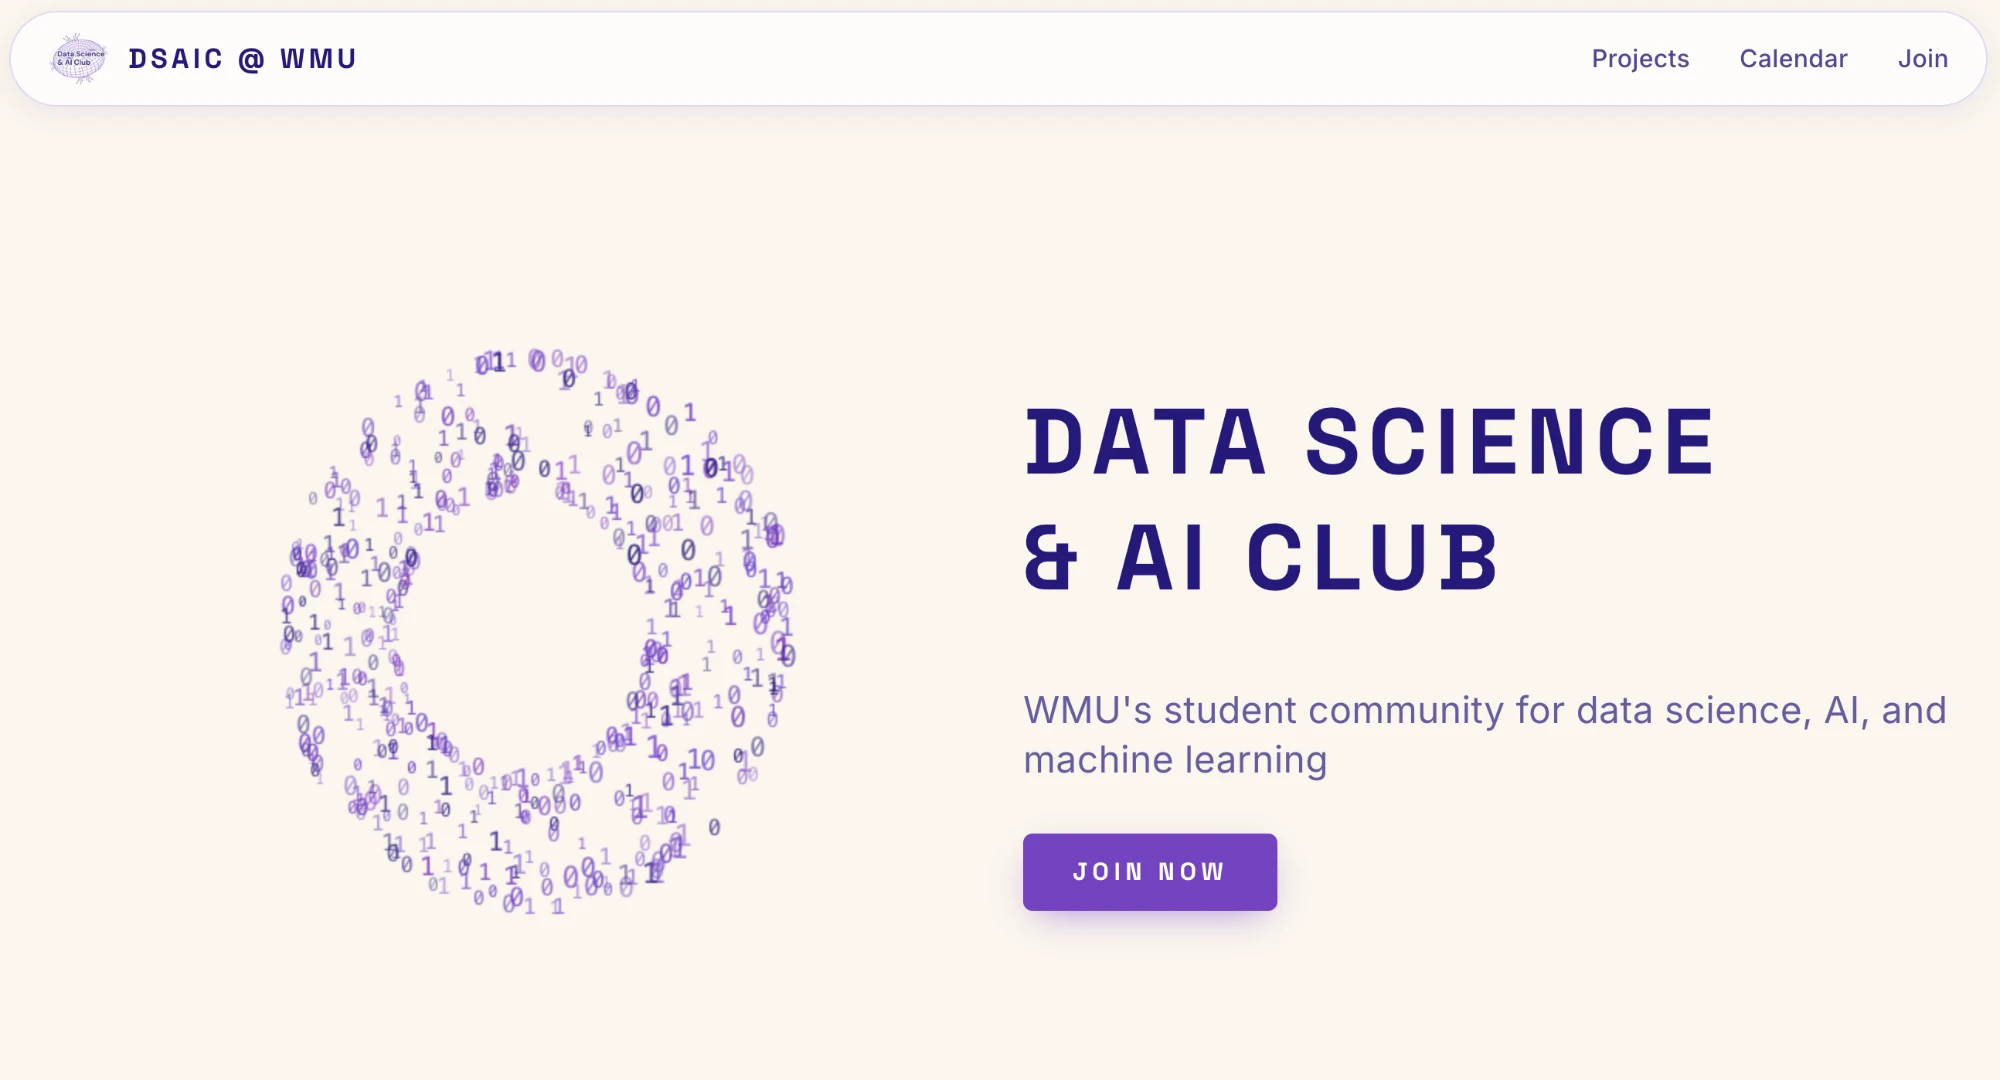
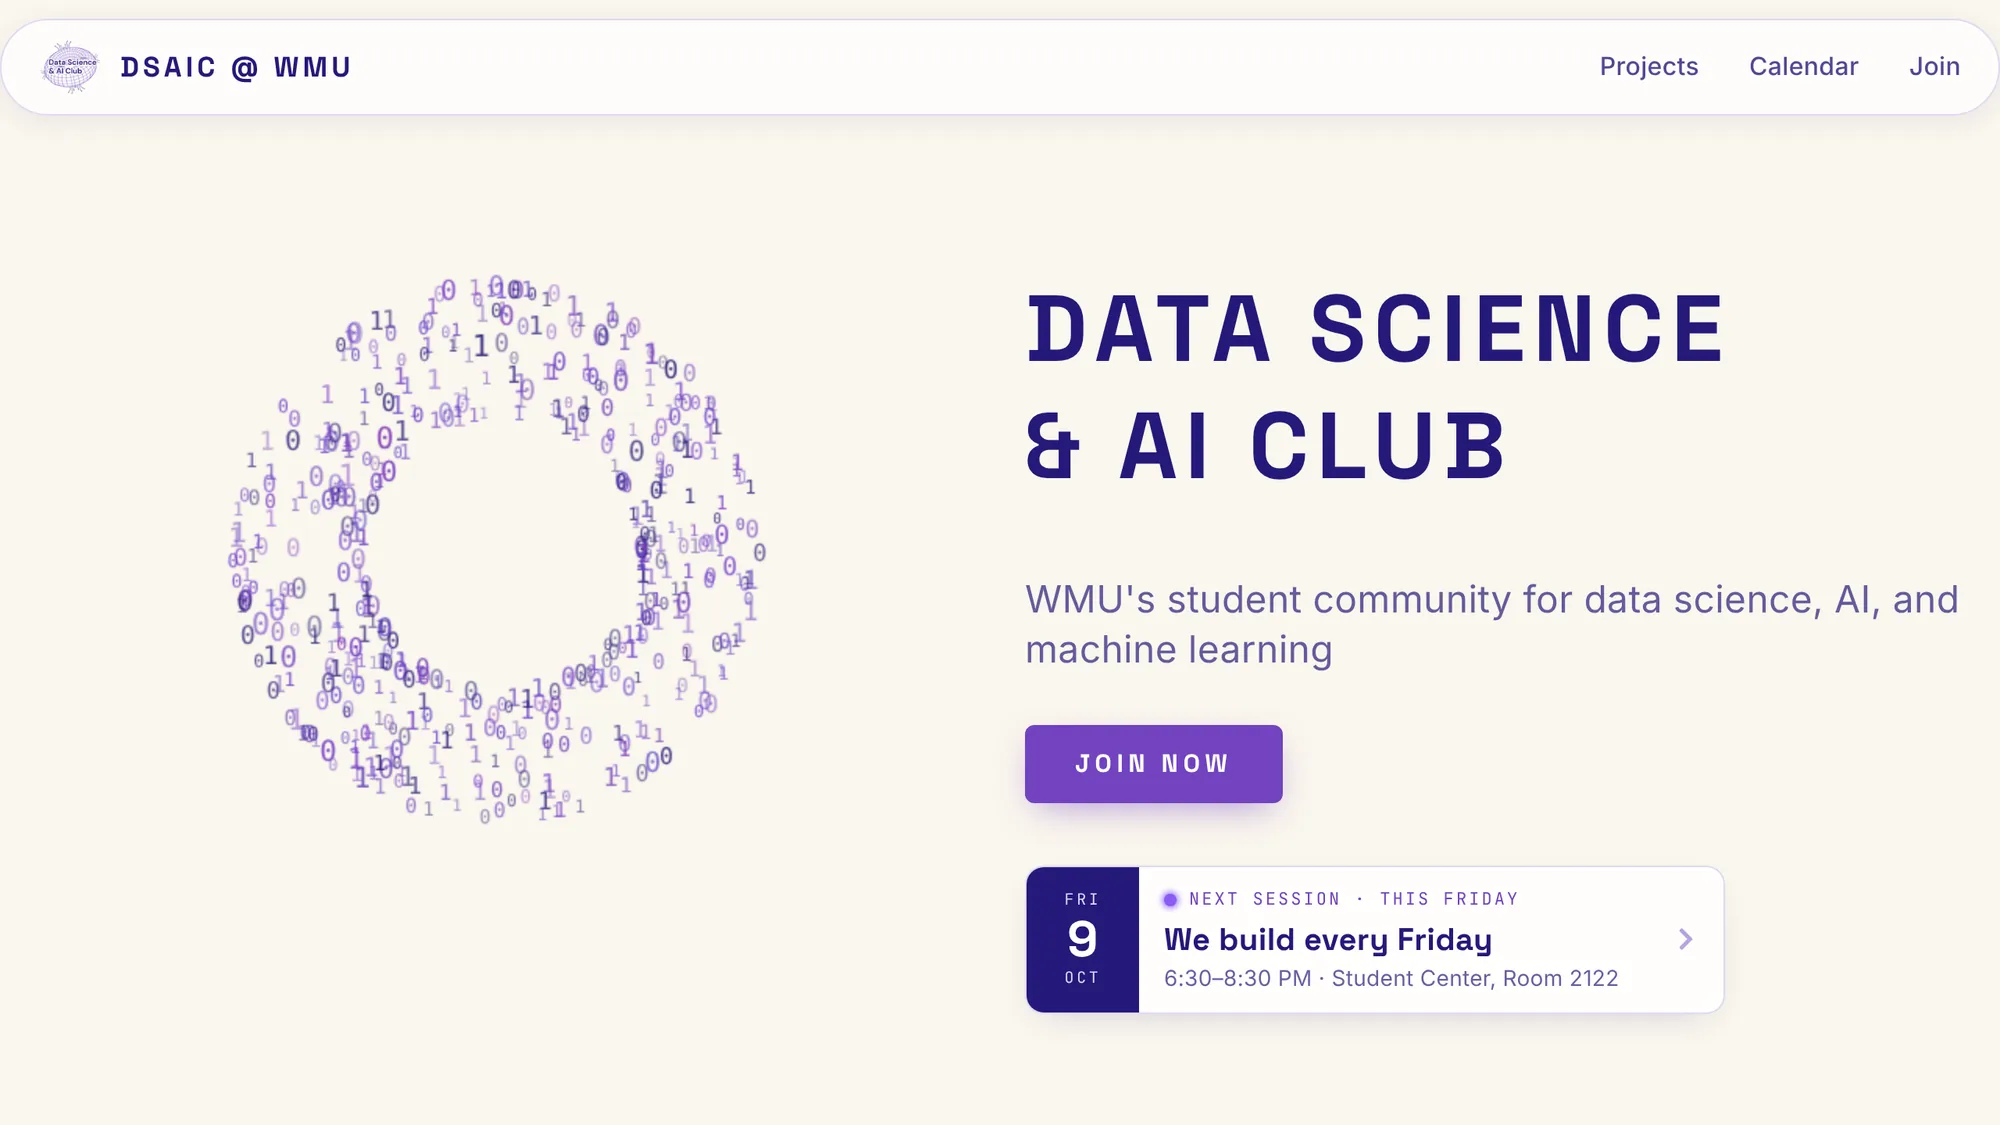
Refresh the README and its preview image
- New preview image of the landing page, including the next build session
  card.
- README follows common open-source structure: quick links, website-status
  and tech-stack badges, a table of contents, a tech-stack table, a
  commands table that includes the OG image and favicon scripts, an
  accurate project tree (calendar.ics, llms.txt, scripts/), and sections on
  SEO, deployment, and contributing.
- CLAUDE.md notes that new pages should use pageMetadata().

Claude-Session: https://claude.ai/code/session_01A5X7vCFBNQfVBcZBc177kj

diff --git a/README.md b/README.md
@@ -1,71 +1,142 @@
 <div align="center">
 
-![DSAIC website hero](./images/header.webp)
+![The DSAIC website's landing page, showing the next Friday build session](./images/header.webp)
 
 # Data Science & AI Club at WMU
 
-**The official website of DSAIC — WMU's student community for data science, AI, and machine learning.**
+**The official website of DSAIC, Western Michigan University's student community for data science, AI, and machine learning.**
 
-[**dscwmu.org**](https://dscwmu.org)
+[Website](https://dscwmu.org) · [Calendar](https://dscwmu.org/calendar) · [Projects](https://dscwmu.org/projects) · [Join the club](https://dscwmu.org/join)
 
+[![dscwmu.org](https://img.shields.io/website?url=https%3A%2F%2Fdscwmu.org&style=for-the-badge&label=dscwmu.org&up_message=online&down_message=offline)](https://dscwmu.org)
 ![Next.js](https://img.shields.io/badge/Next.js_15-000000?style=for-the-badge&logo=nextdotjs&logoColor=white)
 ![React](https://img.shields.io/badge/React_19-61DAFB?style=for-the-badge&logo=react&logoColor=black)
-![TypeScript](https://img.shields.io/badge/TypeScript-3178C6?style=for-the-badge&logo=typescript&logoColor=white)
+![TypeScript](https://img.shields.io/badge/TypeScript_5-3178C6?style=for-the-badge&logo=typescript&logoColor=white)
 ![Tailwind CSS](https://img.shields.io/badge/Tailwind_CSS_4-06B6D4?style=for-the-badge&logo=tailwindcss&logoColor=white)
+![Vercel](https://img.shields.io/badge/Hosted_on_Vercel-000000?style=for-the-badge&logo=vercel&logoColor=white)
 
 </div>
 
-## Overview
+## Contents
 
-A fully static, performance-focused site built with the Next.js App Router. It showcases the club's projects, events, and team, with structured data (schema.org) and per-page metadata for SEO.
+- [About](#about)
+- [Features](#features)
+- [Tech Stack](#tech-stack)
+- [Getting Started](#getting-started)
+- [Editing Content](#editing-content)
+- [Project Structure](#project-structure)
+- [SEO and Machine Readability](#seo-and-machine-readability)
+- [Deployment](#deployment)
+- [Contributing](#contributing)
+
+## About
+
+The site is where members and prospective members find out when the club meets, what it's building, and how to join. Its core is the weekly build session: every Friday, 6:30–8:30 PM, in the WMU Student Center. The schedule is kept in one data file and checks the date on its own, so the landing page, the calendar page, and the calendar feed all stay current without a redeploy.
 
 ## Features
 
-- **Friday build sessions front and center** — the hero shows the next session, and the schedule flags weeks off and room changes
-- **Events in one place** — a single source of truth (`lib/events.ts`) feeds the calendar page, the landing page schedule, and a calendar feed at `/calendar.ics` (behind the Add to Google Calendar and Apple / Outlook buttons); past sessions and events drop off on their own
-- **Projects showcase** with active and past club projects
-- **Photo gallery** cycling through club event photos
-- **Smooth scrolling** powered by Lenis, with `prefers-reduced-motion` respected
-- **Responsive design** across desktop, tablet, and mobile
+- **Next build session up front.** A card under the hero shows the next session, switches to "Happening now" while one is running, and flags weeks off and room changes.
+- **Calendar page.** Every Friday this semester, grouped by month, plus special events, past events, and recent Instagram recaps.
+- **Add to calendar.** One click subscribes Google Calendar to the club feed; Apple Calendar and Outlook users get a downloadable `.ics` file.
+- **Projects, officers, and resources.** Active and past club projects, the officer board, and a short list of learning resources.
+- **Search and AI friendly.** Per-page metadata, schema.org structured data, a sitemap, and an `llms.txt` summary. See [SEO and Machine Readability](#seo-and-machine-readability).
+- **Fast and accessible.** Statically generated, optimized images, responsive from phone to desktop, and smooth scrolling that turns off for `prefers-reduced-motion`.
+
+## Tech Stack
+
+| Area | Technology | Notes |
+| --- | --- | --- |
+| Framework | [Next.js 15](https://nextjs.org) (App Router) | Static pages regenerated at most hourly (ISR) |
+| UI | [React 19](https://react.dev) | Server components by default, client components for interactive parts |
+| Language | [TypeScript 5](https://www.typescriptlang.org) | Strict mode |
+| Styling | [Tailwind CSS 4](https://tailwindcss.com) | Design tokens in `app/globals.css` |
+| Fonts | Space Grotesk, Inter, JetBrains Mono | Loaded with `next/font` |
+| Icons | [React Icons](https://react-icons.github.io/react-icons/) | Font Awesome set |
+| Scrolling | [Lenis](https://lenis.darkroom.engineering) | Smooth scrolling, off for reduced motion |
+| Images | `next/image`, [sharp](https://sharp.pixelplumbing.com) | Responsive photos; icon generation |
+| Hosting | [Vercel](https://vercel.com) | Production from `main`, a preview for every pull request |
+| Analytics | [Microsoft Clarity](https://clarity.microsoft.com) | Disclosed in the site footer |
+| Linting | [ESLint 9](https://eslint.org) | `next/core-web-vitals` and `next/typescript` |
 
 ## Getting Started
 
-Requires Node.js 18.18+.
+**Prerequisites:** Node.js 18.18 or newer (20 LTS recommended) and npm.
+
+Clone the repository, then install dependencies and start the development server:
 
 ```bash
-# clone this repository, then:
 npm install
 npm run dev
 ```
 
-Open [http://localhost:3000](http://localhost:3000) to view the site. Other scripts:
+Then open [http://localhost:3000](http://localhost:3000).
 
-```bash
-npm run build   # production build
-npm run start   # serve the production build
-npm run lint    # lint the codebase
-```
+| Command | What it does |
+| --- | --- |
+| `npm run dev` | Start the development server with Turbopack |
+| `npm run build` | Create a production build |
+| `npm run start` | Serve the production build |
+| `npm run lint` | Lint the codebase |
+| `python3 scripts/create-og-image.py` | Rebuild the link preview card, `public/og-image.jpg` (needs Pillow) |
+| `node scripts/create-favicon.js` | Regenerate the favicons and app icons from the club logo |
 
 ## Editing Content
 
+Most updates only touch a data file:
+
 | Content | Where |
 | --- | --- |
-| Weekly build sessions | `lib/events.ts` — `BUILD_SESSION` holds the usual day, time, and room; `BUILD_SESSIONS` lists each Friday, with `room` for a room change and `noSession` for a week off |
-| Special events | `lib/events.ts` — `EVENTS`; give an event a `date` once it's scheduled and it shows on the landing page until it's over |
-| Instagram recaps on the calendar page | `lib/instagram.ts` + 1080x1350 WebP images in `public/instagram/` |
-| Active & past projects | `components/sections/Projects.tsx` |
-| About-section photo gallery | `components/sections/About.tsx` + image files in `public/` |
-| Team members | `components/sections/Team.tsx` + photos in `public/pfp/` |
+| Weekly build sessions | `lib/events.ts`: `BUILD_SESSION` holds the usual day, time, and room; `BUILD_SESSIONS` lists each Friday, with `room` for a room change and `noSession` for a week off |
+| Special events | `lib/events.ts`: `EVENTS`; give an event a `date` once it's scheduled and it shows on the landing page until it's over |
+| Instagram recaps on the calendar page | `lib/instagram.ts`, plus 1080×1350 WebP images in `public/instagram/` |
+| Projects | `components/sections/Projects.tsx` |
+| About-section photo gallery | `components/sections/About.tsx`, plus image files in `public/` |
+| Officers | `components/sections/Team.tsx`, plus photos in `public/pfp/` |
+| Link preview image | `scripts/create-og-image.py`; after regenerating, bump the `?v=` in `SOCIAL_IMAGE` in `lib/site.ts` |
 | Site URL, description, socials | `lib/site.ts` |
 
 ## Project Structure
 
 ```
-app/          # Routes (App Router): landing, projects, calendar, join, discord
-components/   # Layout, sections, and card components
-lib/          # Shared data and config (events, site metadata)
-public/       # Static assets (photos, logos, favicons)
+app/
+├── page.tsx            # Landing page
+├── calendar/           # Build sessions, special events, Instagram recaps
+├── projects/, join/    # Projects and membership pages
+├── discord/            # Redirects to the Discord invite
+├── calendar.ics/       # iCalendar feed behind "Add to calendar"
+├── llms.txt/           # Plain-text summary of the club for AI assistants
+├── layout.tsx          # Fonts, site-wide metadata, organization JSON-LD
+└── sitemap.ts, robots.ts, manifest.ts
+components/
+├── sections/           # Page sections: Hero, Schedule, Team, and more
+├── cards/, schedule/   # Cards and shared schedule pieces
+└── layout/             # Header and footer
+lib/                    # Content data (events, Instagram) and helpers (schedule, SEO)
+public/                 # Photos, logos, icons, and the link preview image
+scripts/                # Link preview and favicon generators
+images/                 # README assets
 ```
+
+## SEO and Machine Readability
+
+- **Per-page metadata.** Each page has its own title, description, canonical URL, and Open Graph and Twitter card (`pageMetadata` in `lib/site.ts`).
+- **Structured data.** schema.org JSON-LD describes the club (`EducationalOrganization`) on every page and each upcoming build session (`Event`) on the calendar page.
+- **Crawling.** `sitemap.xml` lists every page, and `robots.txt` allows all crawlers, including AI crawlers.
+- **`/llms.txt`.** A plain-text summary of the club, its upcoming sessions, and an index of the site for AI assistants, following [llmstxt.org](https://llmstxt.org).
+- **`/calendar.ics`.** The schedule as an iCalendar feed, linked from the calendar page's `<head>`.
+
+## Deployment
+
+The site is hosted on Vercel. Merging to `main` deploys to [dscwmu.org](https://dscwmu.org), and every pull request gets its own preview URL.
+
+Pages are static and regenerate at most once an hour, and the schedule re-checks the visitor's clock in the browser, so the next session stays correct between deploys. Absolute URLs default to `https://dscwmu.org`; set `NEXT_PUBLIC_SITE_URL` to override it for another domain.
+
+## Contributing
+
+1. Create a branch from `main`.
+2. Make your changes, then run `npm run lint` and `npm run build`.
+3. Open a pull request and check its Vercel preview.
+4. Merge once it looks right; Vercel deploys it automatically.
 
 ---
 
@@ -73,6 +144,6 @@ public/       # Static assets (photos, logos, favicons)
 
 Built and maintained by DSAIC members.
 
-[Website](https://dscwmu.org) · [Instagram](https://www.instagram.com/dsaicwmu/) · [LinkedIn](https://www.linkedin.com/company/data-science-club-wmu/) · [Email](mailto:wmu.datascienceclub@gmail.com)
+[Website](https://dscwmu.org) · [Instagram](https://www.instagram.com/dsaicwmu/) · [LinkedIn](https://www.linkedin.com/company/data-science-club-wmu/) · [GitHub](https://github.com/Data-Science-Club-at-WMU) · [Email](mailto:wmu.datascienceclub@gmail.com)
 
 </div>

diff --git a/CLAUDE.md b/CLAUDE.md
@@ -32,3 +32,6 @@ historical record of what it shipped.
   logic in `lib/schedule.ts`). The hero card, landing Schedule section,
   calendar page, and `/calendar.ics` all read it; components re-check the
   visitor's clock, so past items drop off without a redeploy.
+- New pages should export `pageMetadata({ title, description, path })` from
+  `lib/site.ts`. Without it a page inherits the homepage's canonical URL and
+  og:url, which tells search engines it's a duplicate of the homepage.
